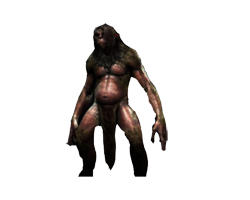
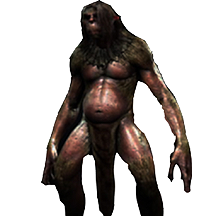
did some edits on the table

diff --git a/stylesheets/style.css b/stylesheets/style.css
@@ -14,19 +14,19 @@ header#topbar > h1 {
     display: inline;
 }
 
+
 table {
-    table-layout: fixed;
-     width: 15in;
-     height: 12in;
+    width: 100%;
+    height: 100%;
 }
 
 table tr {
-    height: 3in;
+    height: 2.5in;
     vertical-align: middle;
-}
+ }
 
 table td {
-    width: 3in;
+    width: 2in;
     vertical-align: middle;
 }
 
@@ -37,7 +37,7 @@ tbody, tr, th, td{
 }
 
 /* A hack to override the zebra styling on tables */
-tbody tr:nth-child(even) td, tbody tr.even td {
+tbody tr:nth-child(even) td, tbody tr.even td{
     background-color:transparent;
 }
 
@@ -101,7 +101,7 @@ section#miscpanel a:hover {
 img{
     margin-left: auto;
     margin-right: auto;
-    height: 100px;
-    width: 100px;
+    height: 90%;
+    width: 90%;
 }
 

diff --git a/index.html b/index.html
@@ -36,22 +36,6 @@
           	<td id="t2D"></td>
           	<td id="t2E"></td>
           </tr>
-            
-          <tr id="t3">
-          	<td id="t3A"></td>
-          	<td id="t3B"></td>
-          	<td id="t3C"></td>
-          	<td id="t3D"></td>
-          	<td id="t3E"></td>
-          </tr>
-
-          <tr id="t4">
-          	<td id="t4A"></td>
-          	<td id="t4B"></td>
-          	<td id="t4C"></td>
-          	<td id="t4D"></td>
-          	<td id="t4E"></td>
-          </tr>
         </table>
       </section>
     </div>

diff --git a/scripts/gjs.js b/scripts/gjs.js
@@ -10,7 +10,7 @@ function showImages(){
     var im = ["z1.png","z2.png","z3.png"];
     var img1 = im[num1];
     
-    var loca = ["t1A","t1B","t1C","t1D","t1E","t2A","t2B","t2C","t2D","t2E","t3A","t3B","t3C","t3D","t3E","t4A","t4B","t4C","t4D","t4E",];
+    var loca = ["t1A","t1B","t1C","t1D","t1E","t2A","t2B","t2C","t2D","t2E"];
     var loc1 = loca[numL1];
 
    
